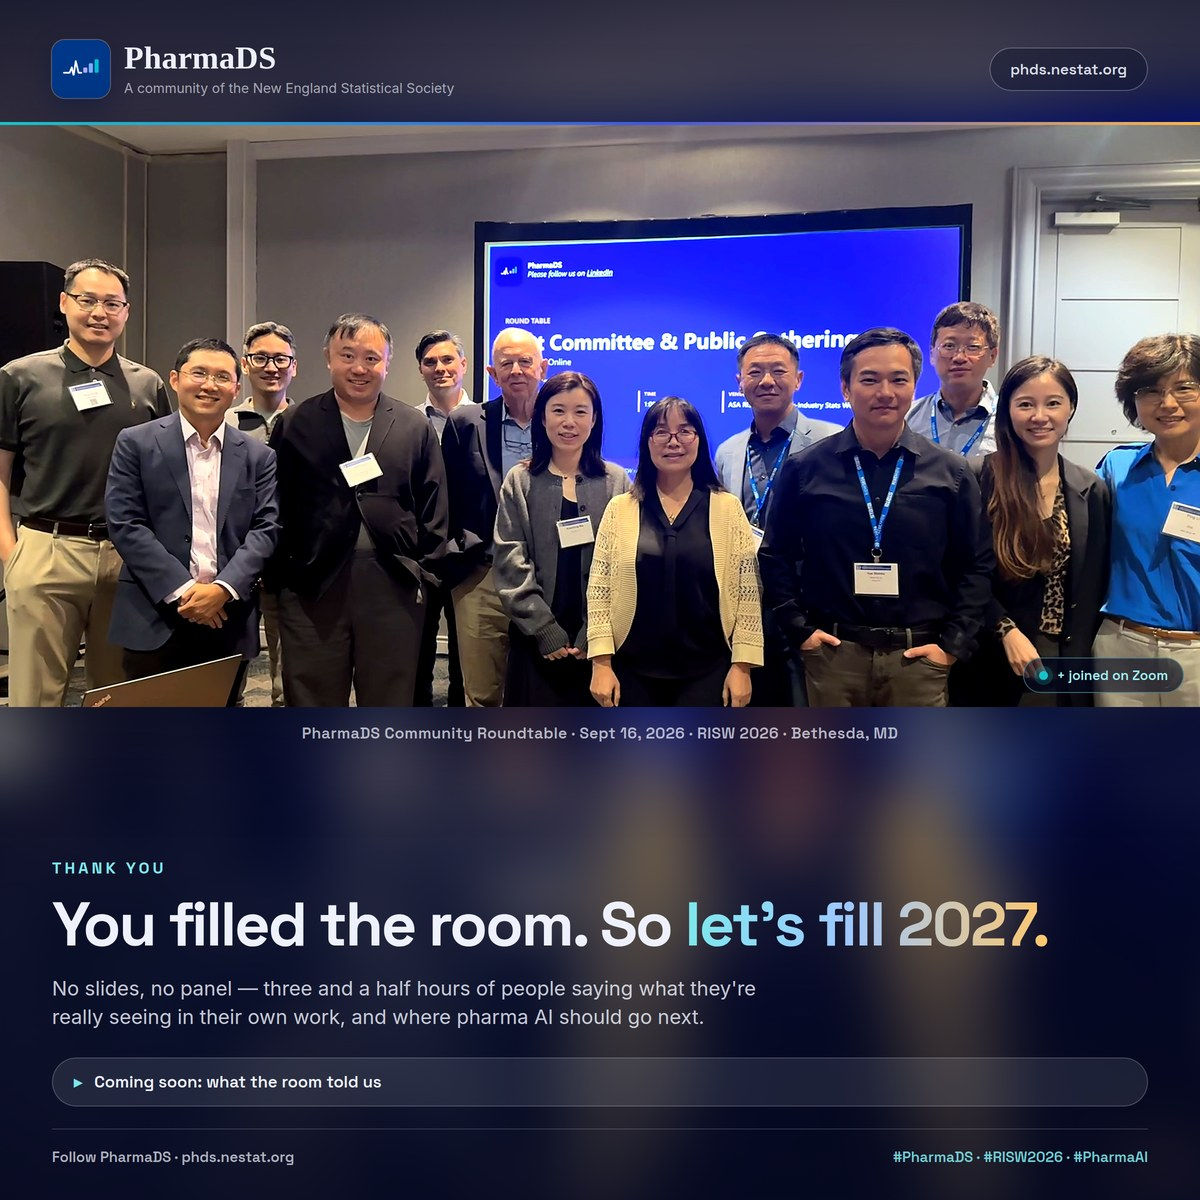
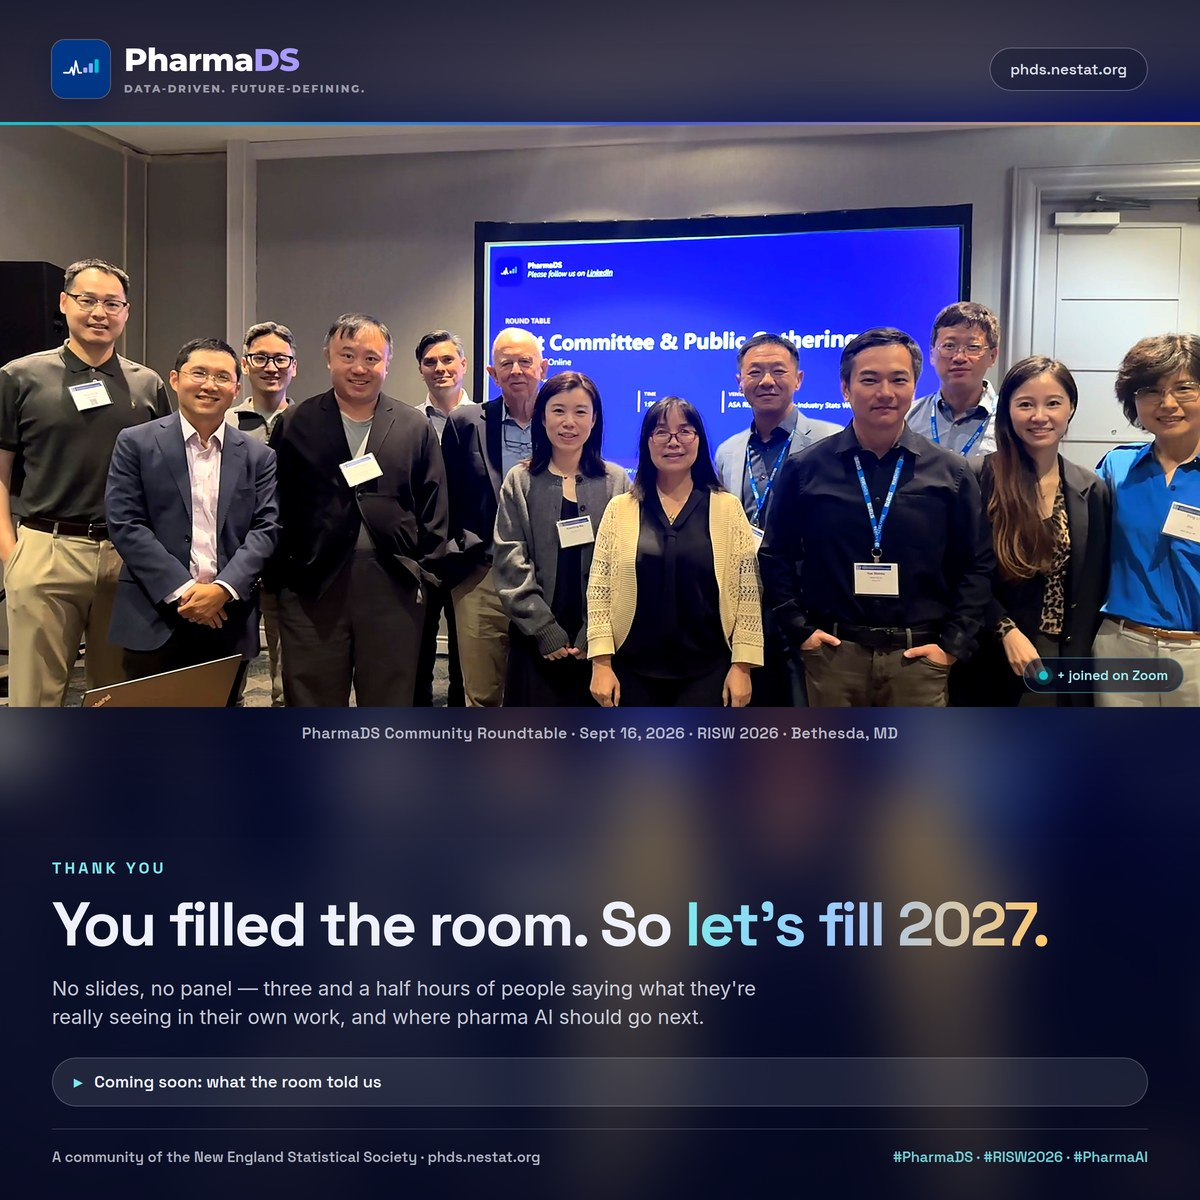
Match the official PharmaDS lockup and add the event poster's details
- Wordmark is now the brand's two-tone geometric lockup (Montserrat
  ExtraBold, "Pharma" white + "DS" lavender) over the "Data-driven.
  Future-defining." tagline, replacing the serif stand-in; the NESS
  affiliation moves to the footer line
- Swap Tinos for Montserrat in the font fetcher
- Post copy picks up the roundtable strapline, both agenda items, the full
  venue name and a facilitator credit line for tagging

Claude-Session: https://claude.ai/code/session_01T6bZZ7LoazGs74sY3LzxVU

Changed region(s): [[0.0308, 0.9558, 0.4625, 0.9867], [0.0925, 0.0308, 0.37, 0.0925]]

diff --git a/social/2026-09-16-risw-roundtable/build/poster.css b/social/2026-09-16-risw-roundtable/build/poster.css
@@ -1,5 +1,5 @@
 @font-face { font-family:"Inter"; src:url("fonts/Inter.woff2") format("woff2"); font-weight:100 900; font-display:block; }
-@font-face { font-family:"Tinos"; src:url("fonts/Tinos-700.woff2") format("woff2"); font-weight:700; font-display:block; }
+@font-face { font-family:"Montserrat"; src:url("fonts/Montserrat-800.woff2") format("woff2"); font-weight:800; font-display:block; }
 @font-face { font-family:"Space Grotesk"; src:url("fonts/SpaceGrotesk.woff2") format("woff2"); font-weight:300 700; font-display:block; }
 *{box-sizing:border-box;margin:0;padding:0;}
 body{font-family:"Inter",sans-serif;-webkit-font-smoothing:antialiased;background:#05091f;}
@@ -15,7 +15,11 @@ body{font-family:"Inter",sans-serif;-webkit-font-smoothing:antialiased;backgroun
 .topbar{display:flex;align-items:center;justify-content:space-between;}
 .brand{display:flex;align-items:center;gap:14px;}
 .brand img{display:block;border-radius:22%;box-shadow:0 0 0 1px rgba(238,241,251,.28), 0 8px 24px rgba(0,20,70,.45);}
-.wordmark{font-family:"Tinos",Georgia,serif;font-weight:700;letter-spacing:.005em;line-height:1;}
+/* logo lockup: two-tone wordmark as in the brand logo, lightened for dark backgrounds */
+.wordmark{font-family:"Montserrat",sans-serif;font-weight:800;letter-spacing:-.022em;line-height:1;color:#ffffff;}
+.wordmark .ds{color:#a99bff;}
+.tagline{font-family:"Montserrat",sans-serif;font-weight:700;font-size:10.5px;letter-spacing:.17em;
+  text-transform:uppercase;color:rgba(238,241,251,.62);margin-top:7px;}
 .hostline{font-size:13.5px;color:rgba(238,241,251,.66);margin-top:6px;}
 .sitechip{font-family:"Space Grotesk",sans-serif;font-weight:600;border:1px solid rgba(238,241,251,.3);
   border-radius:999px;background:rgba(6,11,36,.35);color:rgba(238,241,251,.92);white-space:nowrap;}

diff --git a/social/2026-09-16-risw-roundtable/build/poster-portrait.html b/social/2026-09-16-risw-roundtable/build/poster-portrait.html
@@ -23,8 +23,8 @@
     <div class="brand">
       <img src="../assets/pharmads-logo.svg" width="58" height="58" alt="PharmaDS">
       <div>
-        <div class="wordmark">PharmaDS</div>
-        <div class="hostline">A community of the New England Statistical Society</div>
+        <div class="wordmark">Pharma<span class="ds">DS</span></div>
+        <div class="tagline">Data-driven. Future-defining.</div>
       </div>
     </div>
     <div class="sitechip">phds.nestat.org</div>
@@ -46,7 +46,7 @@
 
   <div class="layer next"><span class="tick">▸</span> Coming soon: what the room told us</div>
   <div class="layer footline">
-    <span>Follow PharmaDS · phds.nestat.org</span>
+    <span>A community of the New England Statistical Society · phds.nestat.org</span>
     <span class="tags">#PharmaDS · #RISW2026 · #PharmaAI</span>
   </div>
 </div></body></html>

diff --git a/social/2026-09-16-risw-roundtable/build/poster-square.html b/social/2026-09-16-risw-roundtable/build/poster-square.html
@@ -23,8 +23,8 @@
     <div class="brand">
       <img src="../assets/pharmads-logo.svg" width="58" height="58" alt="PharmaDS">
       <div>
-        <div class="wordmark">PharmaDS</div>
-        <div class="hostline">A community of the New England Statistical Society</div>
+        <div class="wordmark">Pharma<span class="ds">DS</span></div>
+        <div class="tagline">Data-driven. Future-defining.</div>
       </div>
     </div>
     <div class="sitechip">phds.nestat.org</div>
@@ -46,7 +46,7 @@
 
   <div class="layer next"><span class="tick">▸</span> Coming soon: what the room told us</div>
   <div class="layer footline">
-    <span>Follow PharmaDS · phds.nestat.org</span>
+    <span>A community of the New England Statistical Society · phds.nestat.org</span>
     <span class="tags">#PharmaDS · #RISW2026 · #PharmaAI</span>
   </div>
 </div></body></html>

diff --git a/social/2026-09-16-risw-roundtable/build/fetch-fonts.py b/social/2026-09-16-risw-roundtable/build/fetch-fonts.py
@@ -1,8 +1,8 @@
 #!/usr/bin/env python3
 """Download the brand webfonts (latin subset) used by the posters into ./fonts.
 
-Inter + Space Grotesk for the poster typography, Tinos for the logo wordmark
-(Times-metric serif, matching the PharmaDS lockup).
+Inter + Space Grotesk for the poster typography, Montserrat ExtraBold for the
+PharmaDS wordmark in the logo lockup.
 """
 import os
 import re
@@ -11,7 +11,7 @@ import subprocess
 URL = ("https://fonts.googleapis.com/css2?"
        "family=Inter:wght@400;500;600;700;800;900"
        "&family=Space+Grotesk:wght@500;600;700"
-       "&family=Tinos:wght@400;700&display=swap")
+       "&family=Montserrat:wght@700;800&display=swap")
 # The full Chrome UA matters: with a short UA, Google Fonts serves legacy TTF instead of woff2.
 UA = ("Mozilla/5.0 (X11; Linux x86_64) AppleWebKit/537.36 (KHTML, like Gecko) "
       "Chrome/120.0.0.0 Safari/537.36")

diff --git a/social/2026-09-16-risw-roundtable/post-01-group-photo.md b/social/2026-09-16-risw-roundtable/post-01-group-photo.md
@@ -20,14 +20,21 @@ This is the room.
 Yesterday afternoon, on Day 1 of RISW 2026, the first PharmaDS Community Roundtable filled a room
 in Bethesda — plus a Zoom link full of people who didn't want to miss it.
 
-No slides. No panel. Three and a half hours of people from across the pharma world saying what
-they are actually seeing in their own work, and where this field should go next.
+No slides. No panel. Three and a half hours on one question with three parts — shape the future
+of pharma AI, build the community, get involved — and a room full of people saying what they are
+actually seeing in their own work.
+
+Two things were on the agenda: the theme for the 2027 conference, and how we build a pharma AI
+community together. Both of them needed the room more than they needed us.
 
 Thank you to everyone in this photo, and to everyone who joined us online. You gave us your Day 1
 afternoon at a busy workshop, and in return you gave this community its starting point.
 
 Thank you to the **ASA Biopharmaceutical Section** for sponsoring the venue and making the room
-possible, and to the **ASA Regulatory-Industry Statistics Workshop** for hosting us on Day 1.
+possible, and to the **Regulatory-Industry Statistics Workshop** for giving us Day 1 of the week.
+
+Facilitated by Yuqian Shen (Sanofi), Jeen Liu (Regeneron), Eric Zhang (Eikon Therapeutics) and
+Peng Zhang (CIMS Global).
 
 We left with more than a good conversation: a live survey of what this community actually cares
 about, and the first shape of a theme for PharmaDS 2027. We'll start sharing what came out of that
@@ -51,8 +58,9 @@ inside pharma right now, and where this field needs to go next.
 Thank you to everyone in this photo and everyone who joined online. You didn't come with answers,
 you came with what you're seeing in your own work. That's what made the room work.
 
-Thank you also to the **ASA Biopharmaceutical Section** for sponsoring the venue, and to the ASA
-Regulatory-Industry Statistics Workshop for giving us Day 1.
+Thank you also to the **ASA Biopharmaceutical Section** for sponsoring the venue, and to the
+Regulatory-Industry Statistics Workshop for giving us Day 1. Facilitated by Yuqian Shen (Sanofi),
+Jeen Liu (Regeneron), Eric Zhang (Eikon Therapeutics) and Peng Zhang (CIMS Global).
 
 There's more from that room to share — the survey results first, then where 2027 is heading.
 Follow PharmaDS and you won't miss it. phds.nestat.org
@@ -78,6 +86,9 @@ Zoom): what's the one pharma AI question you'd want a room like this to take on 
       credit shows up on their page too. Same for the American Statistical Association and the
       New England Statistical Society. (Deliberately *not* on the poster — tagging only works in
       the post text.)
+- [ ] **Tag the four facilitators and their companies** on the credit line — Sanofi, Regeneron,
+      Eikon Therapeutics, CIMS Global. You're on that line yourself; reword it in the third person
+      or drop your own name if you'd rather not self-credit in your own post.
 - [ ] Add alt text on upload: *"Fourteen PharmaDS Community Roundtable participants standing
       together in front of the event slide at RISW 2026, Bethesda, MD."*
 - [ ] Reply to every comment in the first 2 hours; that window decides how far it travels.
@@ -86,10 +97,18 @@ Zoom): what's the one pharma AI question you'd want a room like this to take on 
 - [ ] Keep the "what's next" soft, as written. The point of post 1 is gratitude — the teaser is
       just a reason to follow, not an agenda.
 
-## Facts used in the poster (verified against the event announcement)
+## Facts used in the poster (verified against the event poster and announcement)
 
-- PharmaDS Community Roundtable, Wednesday **Sept 16, 2026, 1:00–4:30 PM ET** ("three and a half hours")
-- Room White Oak B, Bethesda North Marriott, Rockville MD — Day 1 of the **ASA
-  Regulatory-Industry Statistics Workshop (RISW) 2026**
+- PharmaDS Community Roundtable, Wednesday **Sept 16, 2026, 1:00–4:30 PM EST** ("three and a half hours")
+- Roundtable strapline: *"Shape the Future of Pharma AI • Build the Community • Get Involved"*
+- Room White Oak B, **Bethesda North Marriott Hotel & Conference Center**, Rockville MD — Day 1 of
+  the **Regulatory-Industry Statistics Workshop (RISW) 2026**, Sept 16–18, hosted by the ASA
+  Biopharmaceutical Section
 - Hybrid: in-person **+ Zoom** ("+ joined on Zoom")
-- Agenda: the theme for PharmaDS 2027 and the direction of the pharma AI field
+- On the agenda: the 2027 conference theme, and how to build a pharma AI community together
+- Facilitators: Yuqian Shen, Ph.D. (Co-Chair, Statistical Project Leader, Sanofi) · Jeen Liu, Ph.D.
+  (Leading Advisor; VP & Head of Biostatistics and Data Management, Regeneron) · Eric Zhang, Ph.D.
+  (Theme & Session Planning Stream Lead; Senior Director of Biostatistics, Eikon Therapeutics) ·
+  Peng Zhang, Ph.D. (Speaker & Instructor Invitation Stream Lead; Associate Director, CIMS Global)
+- Brand lockup on the poster follows the event poster's logo: two-tone wordmark (Montserrat
+  ExtraBold) and the tagline "Data-driven. Future-defining."

diff --git a/social/2026-09-16-risw-roundtable/README.md b/social/2026-09-16-risw-roundtable/README.md
@@ -31,9 +31,13 @@ unsharp mask for LinkedIn's downscaling. Nobody is cropped out of frame.
 
 `assets/pharmads-logo.svg` is the PharmaDS mark rebuilt as vector from the deck: navy `#003889`
 tile, white ECG trace, three ascending bars in `#b6adfb` / `#7db1fd` / `#02c0d1`, geometry and
-colours measured off the slide. The wordmark beside it is set in Tinos (Times-metric serif) to
-match the lockup. If you have the original vector, drop it in at that path and re-render —
-nothing else needs to change.
+colours measured off the artwork.
+
+The lockup next to it follows the event poster's logo: two-tone wordmark in Montserrat ExtraBold
+(`Pharma` white, `DS` lavender `#a99bff` — the light-background original is navy `#003078` +
+violet `#5448d8`) over the tagline "Data-driven. Future-defining." If you have the original logo
+vector, drop it in at `assets/pharmads-logo.svg` and re-render; the wordmark lives in
+`build/poster.css` (`.wordmark`).
 
 ## Re-rendering the posters
 
